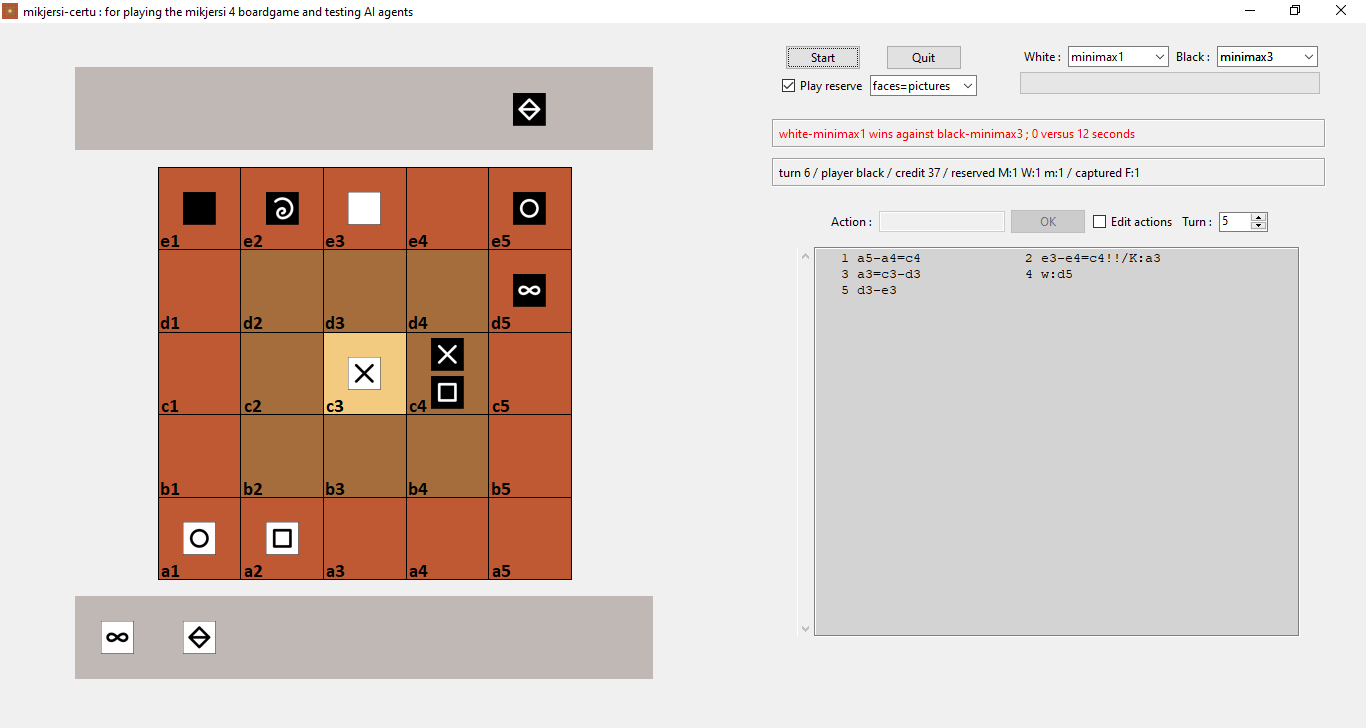
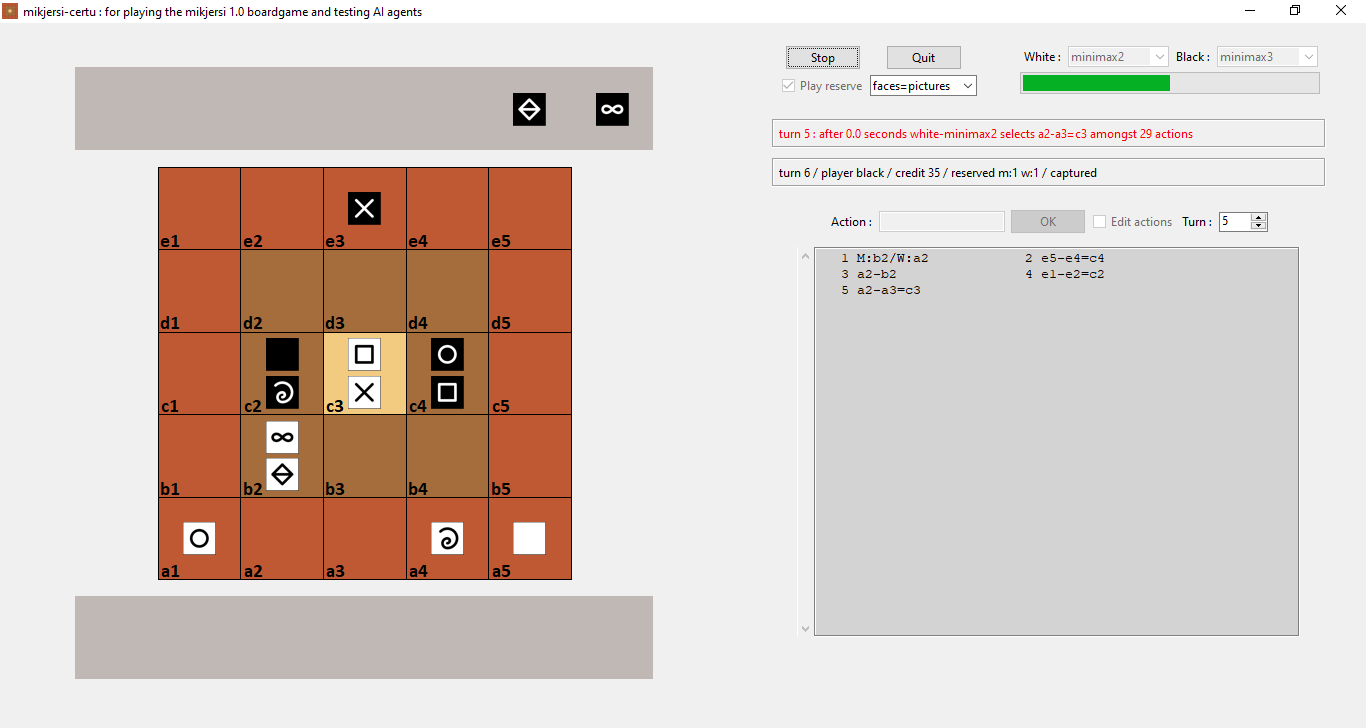
Update README pictures

diff --git a/mikjersi_certu/mikjersi_gui.py b/mikjersi_certu/mikjersi_gui.py
@@ -386,7 +386,7 @@ class GameGui(ttk.Frame):
         self.__root = tk.Tk()
 
         try:
-            self.__root.title("mikjersi-certu : for playing the mikjersi 4 boardgame and testing AI agents")
+            self.__root.title("mikjersi-certu : for playing the mikjersi 1.0 boardgame and testing AI agents")
             self.__root.iconbitmap(AppConfig.ICON_FILE)
         except:
             pass
